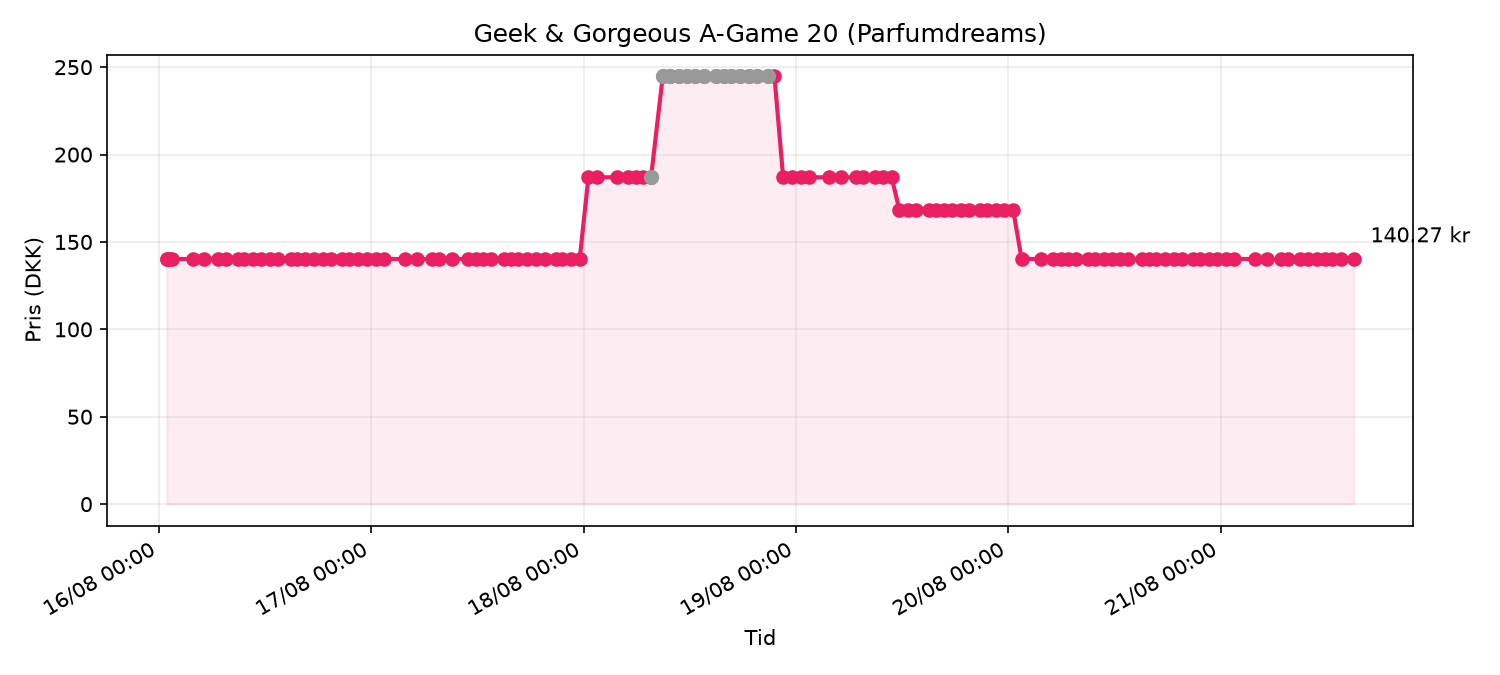
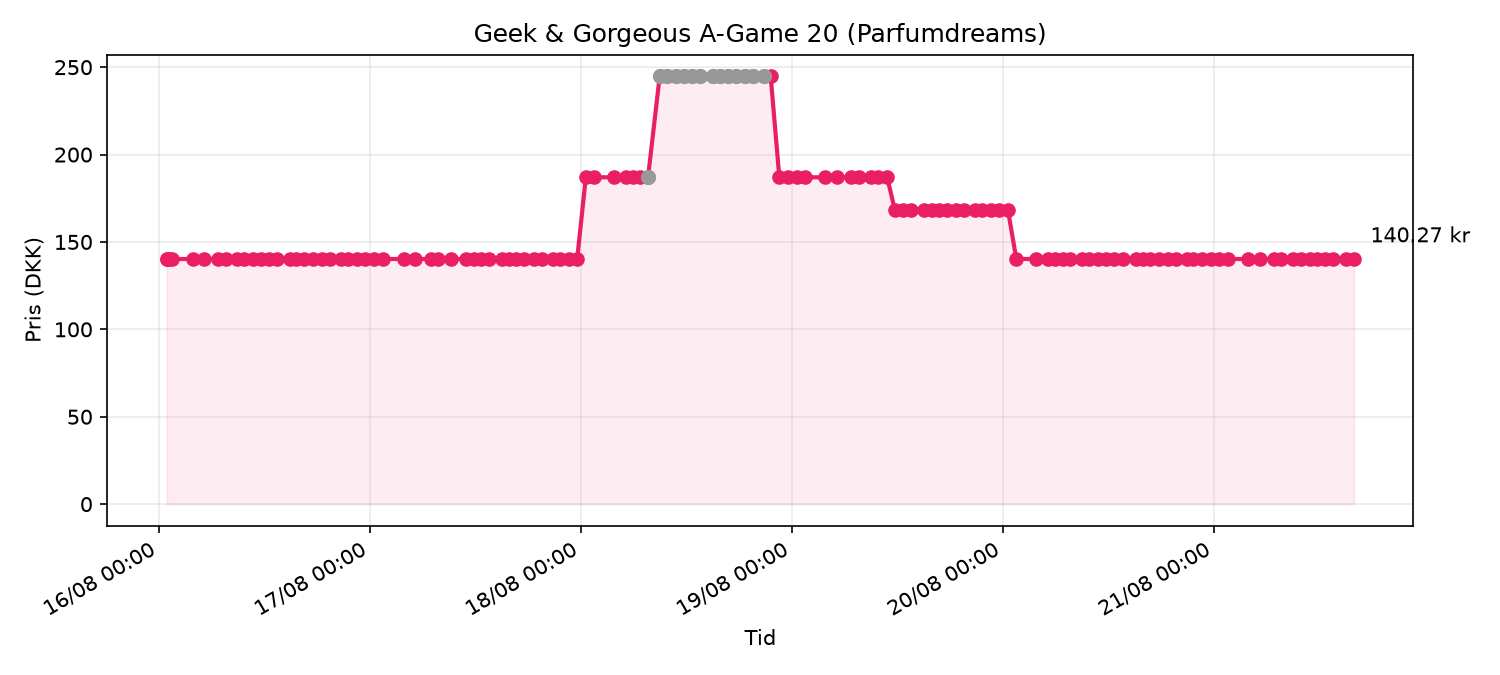
price check 2026-08-21T13:53Z

diff --git a/data/price_chart.html b/data/price_chart.html
@@ -13,7 +13,7 @@
 </head>
 <body>
   <h1>Geek & Gorgeous A-Game 20 (Parfumdreams)</h1>
-  <p class="meta">Senest tjekket: 21/08/2026 15:03 · Pris: <strong>140.27 kr</strong> · på lager</p>
+  <p class="meta">Senest tjekket: 21/08/2026 15:53 · Pris: <strong>140.27 kr</strong> · på lager</p>
   
   <p><a href="https://www.parfumdreams.dk/Geek-Gorgeous/Samlinger/101-aktive-stoffer/A-Game-20-Serum/index_137083.aspx?variation=221879">Åbn produkt på Parfumdreams</a></p>
   <img src="price_chart.png" alt="Prisgraf">
